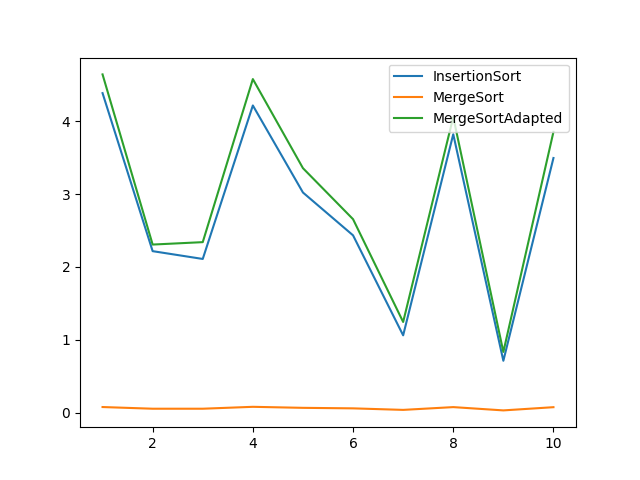
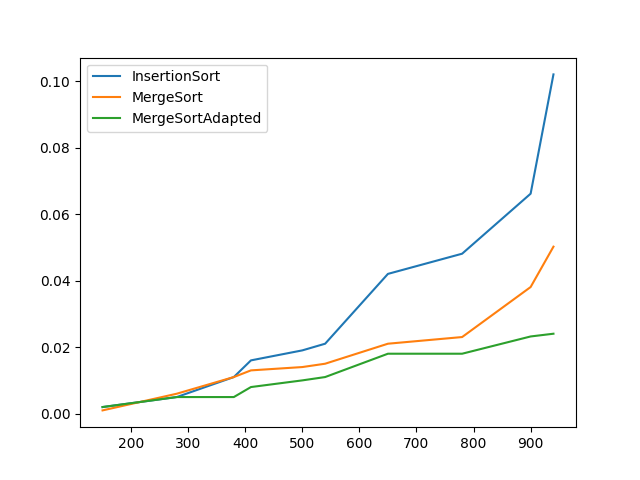
otimizado codigo

diff --git a/src/Utils.py b/src/Utils.py
@@ -2,20 +2,24 @@ from random import randint, uniform
 
 class Utils():
 
-    @staticmethod
-    def generate_random_arrays(num_of_arrays=10):
-        size_of_arrays = [randint(10, 10000) for _ in range(num_of_arrays)]
-        multiplier = randint(10, 20)
-        size_of_input_arrays = [ size * multiplier for size in size_of_arrays]
-        matrix_of_arrays = []
+    def __init__(self) -> None:
+        self.number_of_executions = randint(10, 20)
+        self.num_of_arrays = None
+        self.size_of_input_arrays = None
+
+    def generate_random_arrays(self, num_of_arrays=10):
+        # size_of_arrays = [randint(10, 10000) for _ in range(num_of_arrays)]
+        size_of_arrays = [randint(10, 100) for _ in range(num_of_arrays)]
+        self.size_of_input_arrays = [ size * self.number_of_executions for size in size_of_arrays]
+        self.matrix_of_arrays = []
 
         print('TAMANHO DE ARRAYS ESCOLHIDOS INICIALMENTE: ', size_of_arrays)
-        print('FATOR M GERADO ALEATORIAMENTE TAL QUE 10 ≤ m ≤ 20: ', multiplier)
-        print('TAMANHO DE CADA VETOR DE ENTRADA: ', size_of_input_arrays)
+        print('FATOR M GERADO ALEATORIAMENTE TAL QUE 10 ≤ m ≤ 20: ', self.number_of_executions)
+        print('TAMANHO DE CADA VETOR DE ENTRADA: ', self.size_of_input_arrays)
 
 
-        for size in size_of_input_arrays:
+        for size in self.size_of_input_arrays:
             list_arrays = [uniform(-1,1)*2*size for _ in range(size)]
-            matrix_of_arrays.append(list_arrays)
+            self.matrix_of_arrays.append(list_arrays)
 
-        return matrix_of_arrays
+        return self.matrix_of_arrays

diff --git a/src/MergeSortAdapted.py b/src/MergeSortAdapted.py
@@ -1,8 +1,8 @@
 from src.MergeSort import MergeSort
 from src.InsertionSort import InsertionSort
+from time import time
 
-
-class MergeSortAdapted(MergeSort):
+class MergeSortAdapted(MergeSort, InsertionSort):
     
     def __init__(self, input_arrays, limit_size):
         '''
@@ -15,13 +15,18 @@ class MergeSortAdapted(MergeSort):
         self.limit_size = limit_size
         super().__init__(input_arrays)
 
-
-    def merge_sort(self, array, p, r):
-        if (r - p) < self.limit_size:
-            InsertionSort.sort(array)
-        else:
-            if p < r:
-                q = (p+(r-1))//2
-                self.merge_sort(array, p, q)
-                self.merge_sort(array, q+1, r)
-                self.merge(array, p, q, r)
+    
+    def run(self):
+        for array in self.input_arrays:
+            length_of_array = len(array)
+            init_time = 0
+            if length_of_array < self.limit_size:
+                init_time = time()
+                self.sort(array)
+            else:
+                init_time = time()
+                self.merge_sort(array, 0, length_of_array-1)
+            time_elapsed = time() - init_time
+            self.list_times.append(time_elapsed)
+            self.steps += 1
+            print(f'[{self.class_name}]: STEP {self.steps} OF {len(self.input_arrays)} - TIME ELAPSED: {time_elapsed}')

diff --git a/src/Plot.py b/src/Plot.py
@@ -1,11 +1,13 @@
 import plotly.express as px
 import plotly.graph_objects as go
 import matplotlib.pyplot as plt
+import copy
 
 class Plot():
 
-    def __init__(self, list_of_algorithms):
-        self.data = self.prepare_data(list_of_algorithms)
+    def __init__(self, list_of_algorithms, x_index):
+        self.organize_data(list_of_algorithms, x_index)
+        self.data = self.prepare_data(list_of_algorithms, x_index)
 
 
     def compare_algorithms(self):
@@ -22,14 +24,17 @@ class Plot():
 
         # fig.show()
 
-    def prepare_data(self, list_of_algorithms):
+    def prepare_data(self, list_of_algorithms, x_index):
         data = {}
-        length_of_array = -1
 
         for algorithm in list_of_algorithms:
             data[algorithm.class_name] = algorithm.list_times
-            length_of_array = len(algorithm.list_times)
 
-        data['index'] = [index for index in range(1,length_of_array+1)]
-
+        data['index'] = x_index
         return data
+
+
+    def organize_data(self, list_of_algorithms, x_index):        
+        x_index.sort()
+        for algorithm in list_of_algorithms:
+            algorithm.list_times.sort()

diff --git a/main.py b/main.py
@@ -7,7 +7,8 @@ import copy
 
 
 def main():
-    input_arrays = Utils.generate_random_arrays(num_of_arrays=10)
+    utils = Utils()
+    input_arrays = utils.generate_random_arrays(num_of_arrays=10)
 
     input_insert = copy.deepcopy(input_arrays)
     insertion_sort = InsertionSort(input_insert)
@@ -26,7 +27,10 @@ def main():
     print('MERGE TIMES: ', merge_sort.list_times)
     print('MERGE ADAPTED TIMES: ', merge_sort_adapted.list_times)
 
-    plot = Plot([insertion_sort, merge_sort, merge_sort_adapted])
+    print('SIZE OF INPUT ARRAYS: ', utils.size_of_input_arrays)
+    # print('LIST OF ARRAYS> ', [insertion_sort, merge_sort, merge_sort_adapted])
+    # print('INSERTION SORT LIST TIME: ', insertion_sort.list_times)
+    plot = Plot([insertion_sort, merge_sort, merge_sort_adapted], utils.size_of_input_arrays)
     plot.compare_algorithms()
 
 

diff --git a/src/MergeSort.py b/src/MergeSort.py
@@ -16,9 +16,10 @@ class MergeSort():
     
     def run(self):
         for array in self.input_arrays:
+            length_of_array = len(array)
             init_time = time()
             # print(f'[{self.class_name}]: INITIAL ARRAY: {array}')
-            self.merge_sort(array, 0, len(array)-1)
+            self.merge_sort(array, 0, length_of_array-1)
             # print(f'[{self.class_name}]: FINAL ARRAY: {array}')
             time_elapsed = time() - init_time
             self.list_times.append(time_elapsed)

diff --git a/src/InsertionSort.py b/src/InsertionSort.py
@@ -15,9 +15,7 @@ class InsertionSort():
     def run(self):
         for array in self.input_arrays:
             init_time = time()
-            # print(f'[{self.class_name}]: INITIAL ARRAY: {array}')
             self.sort(array)
-            # print(f'[{self.class_name}]: FINAL ARRAY: {array}')
             time_elapsed = time() - init_time
             self.list_times.append(time_elapsed)
             self.steps += 1
